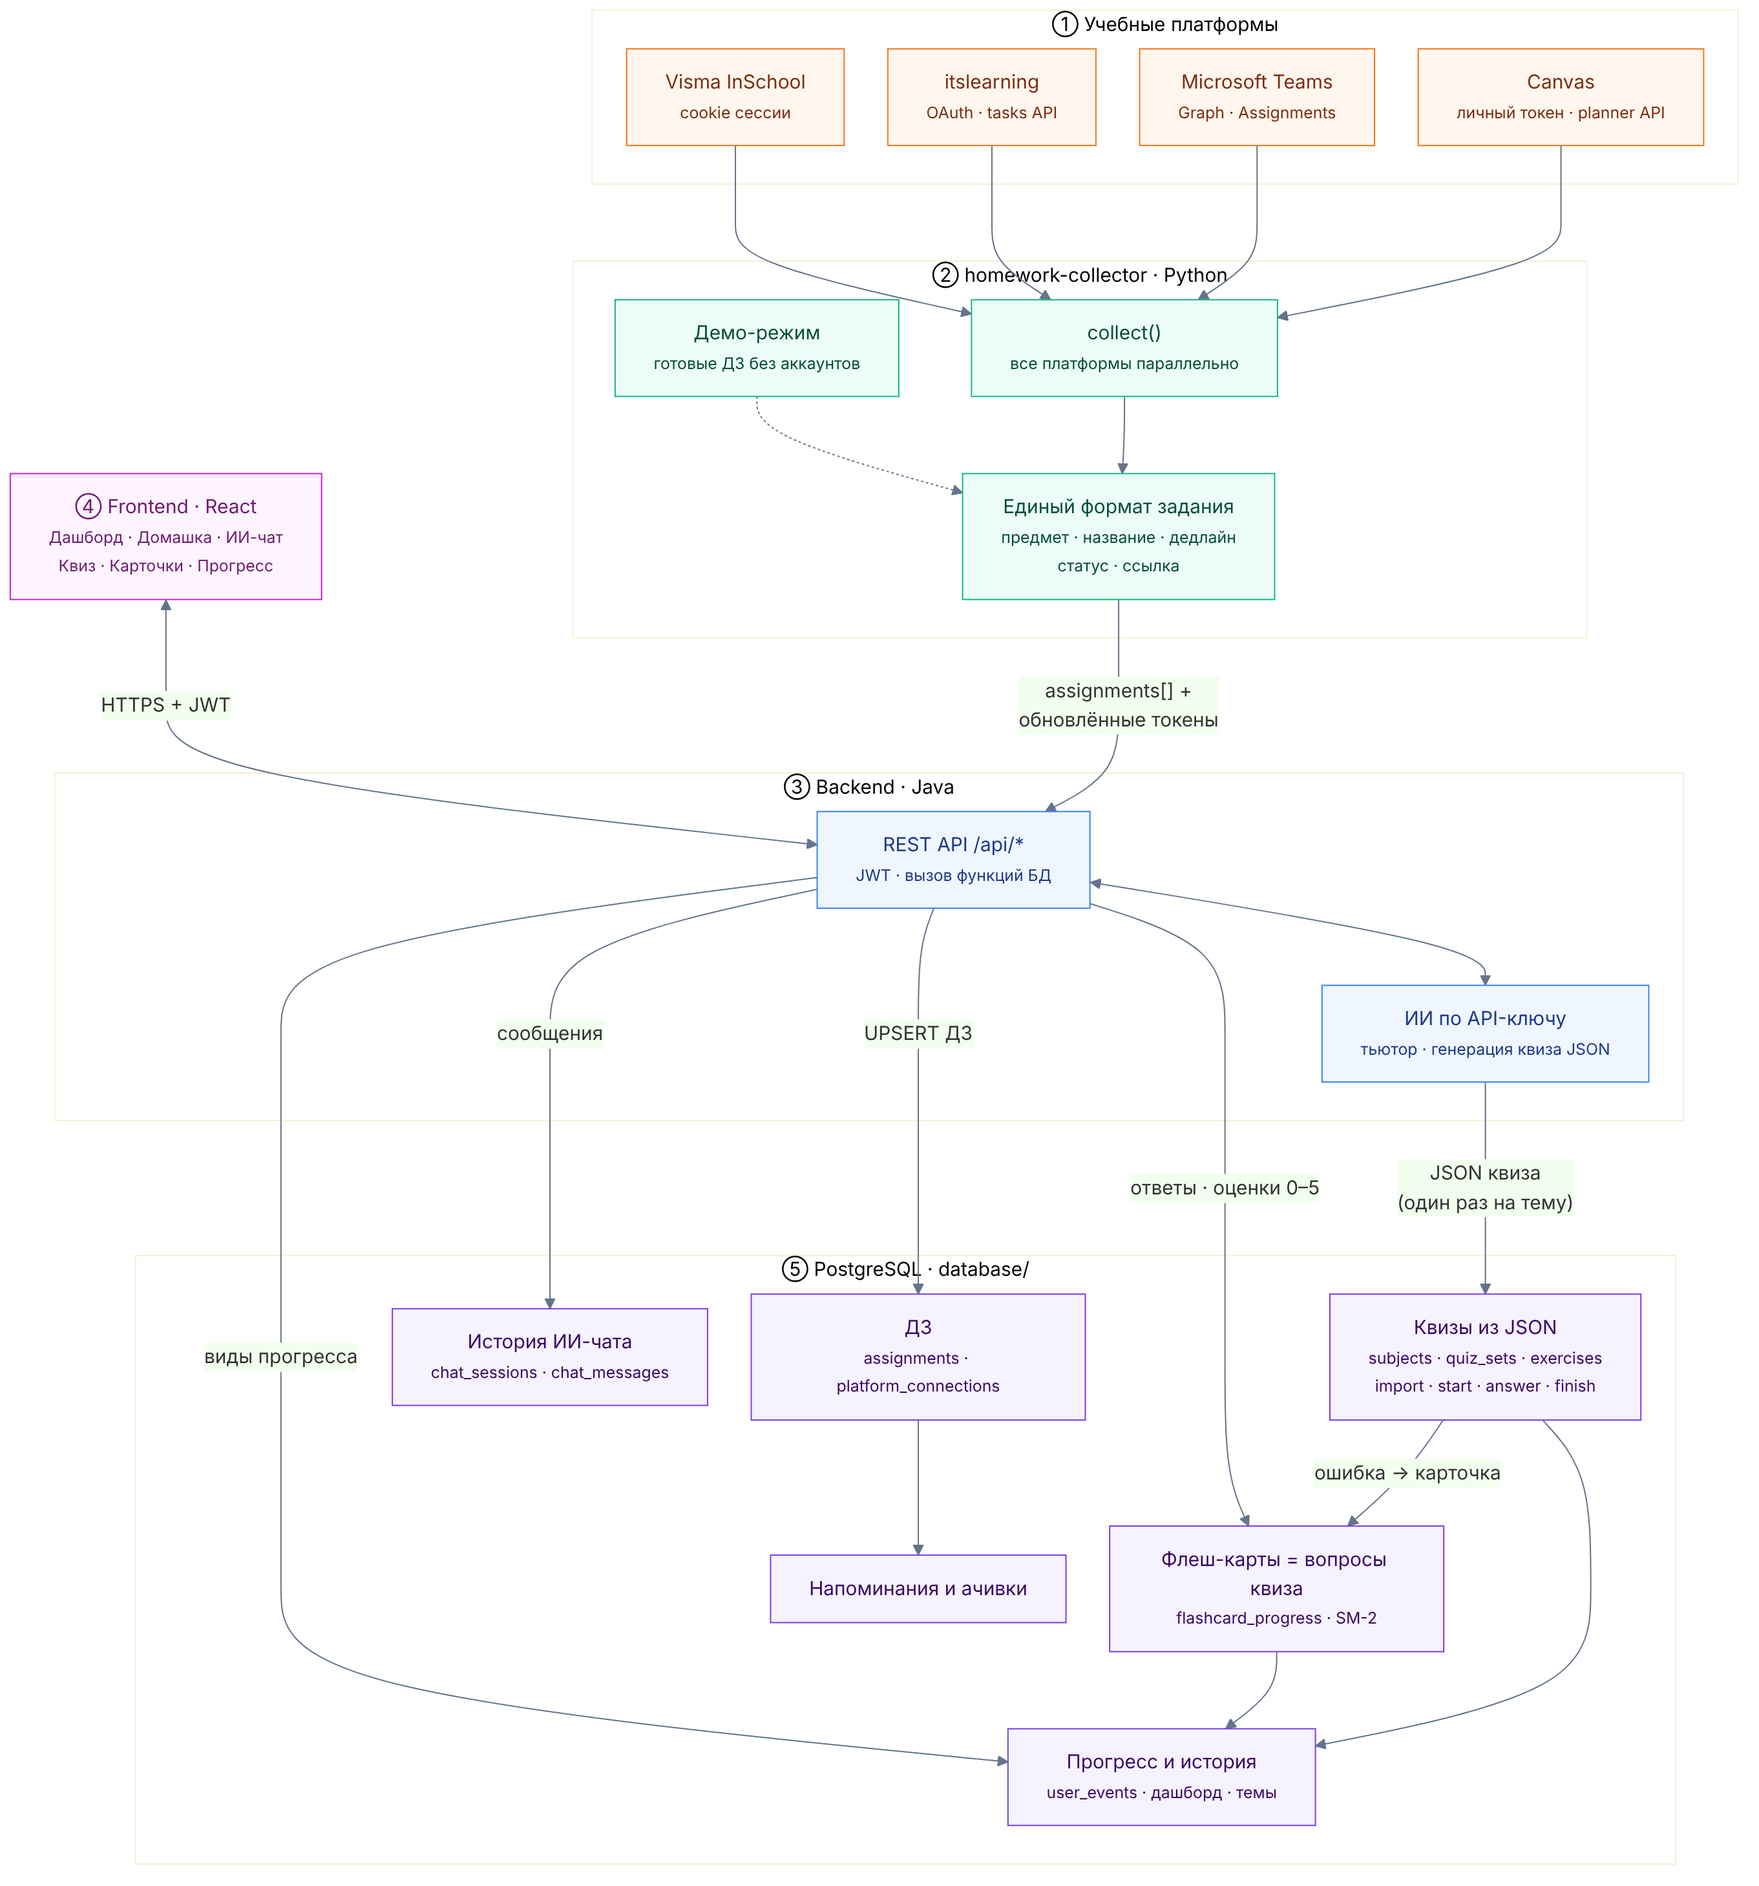
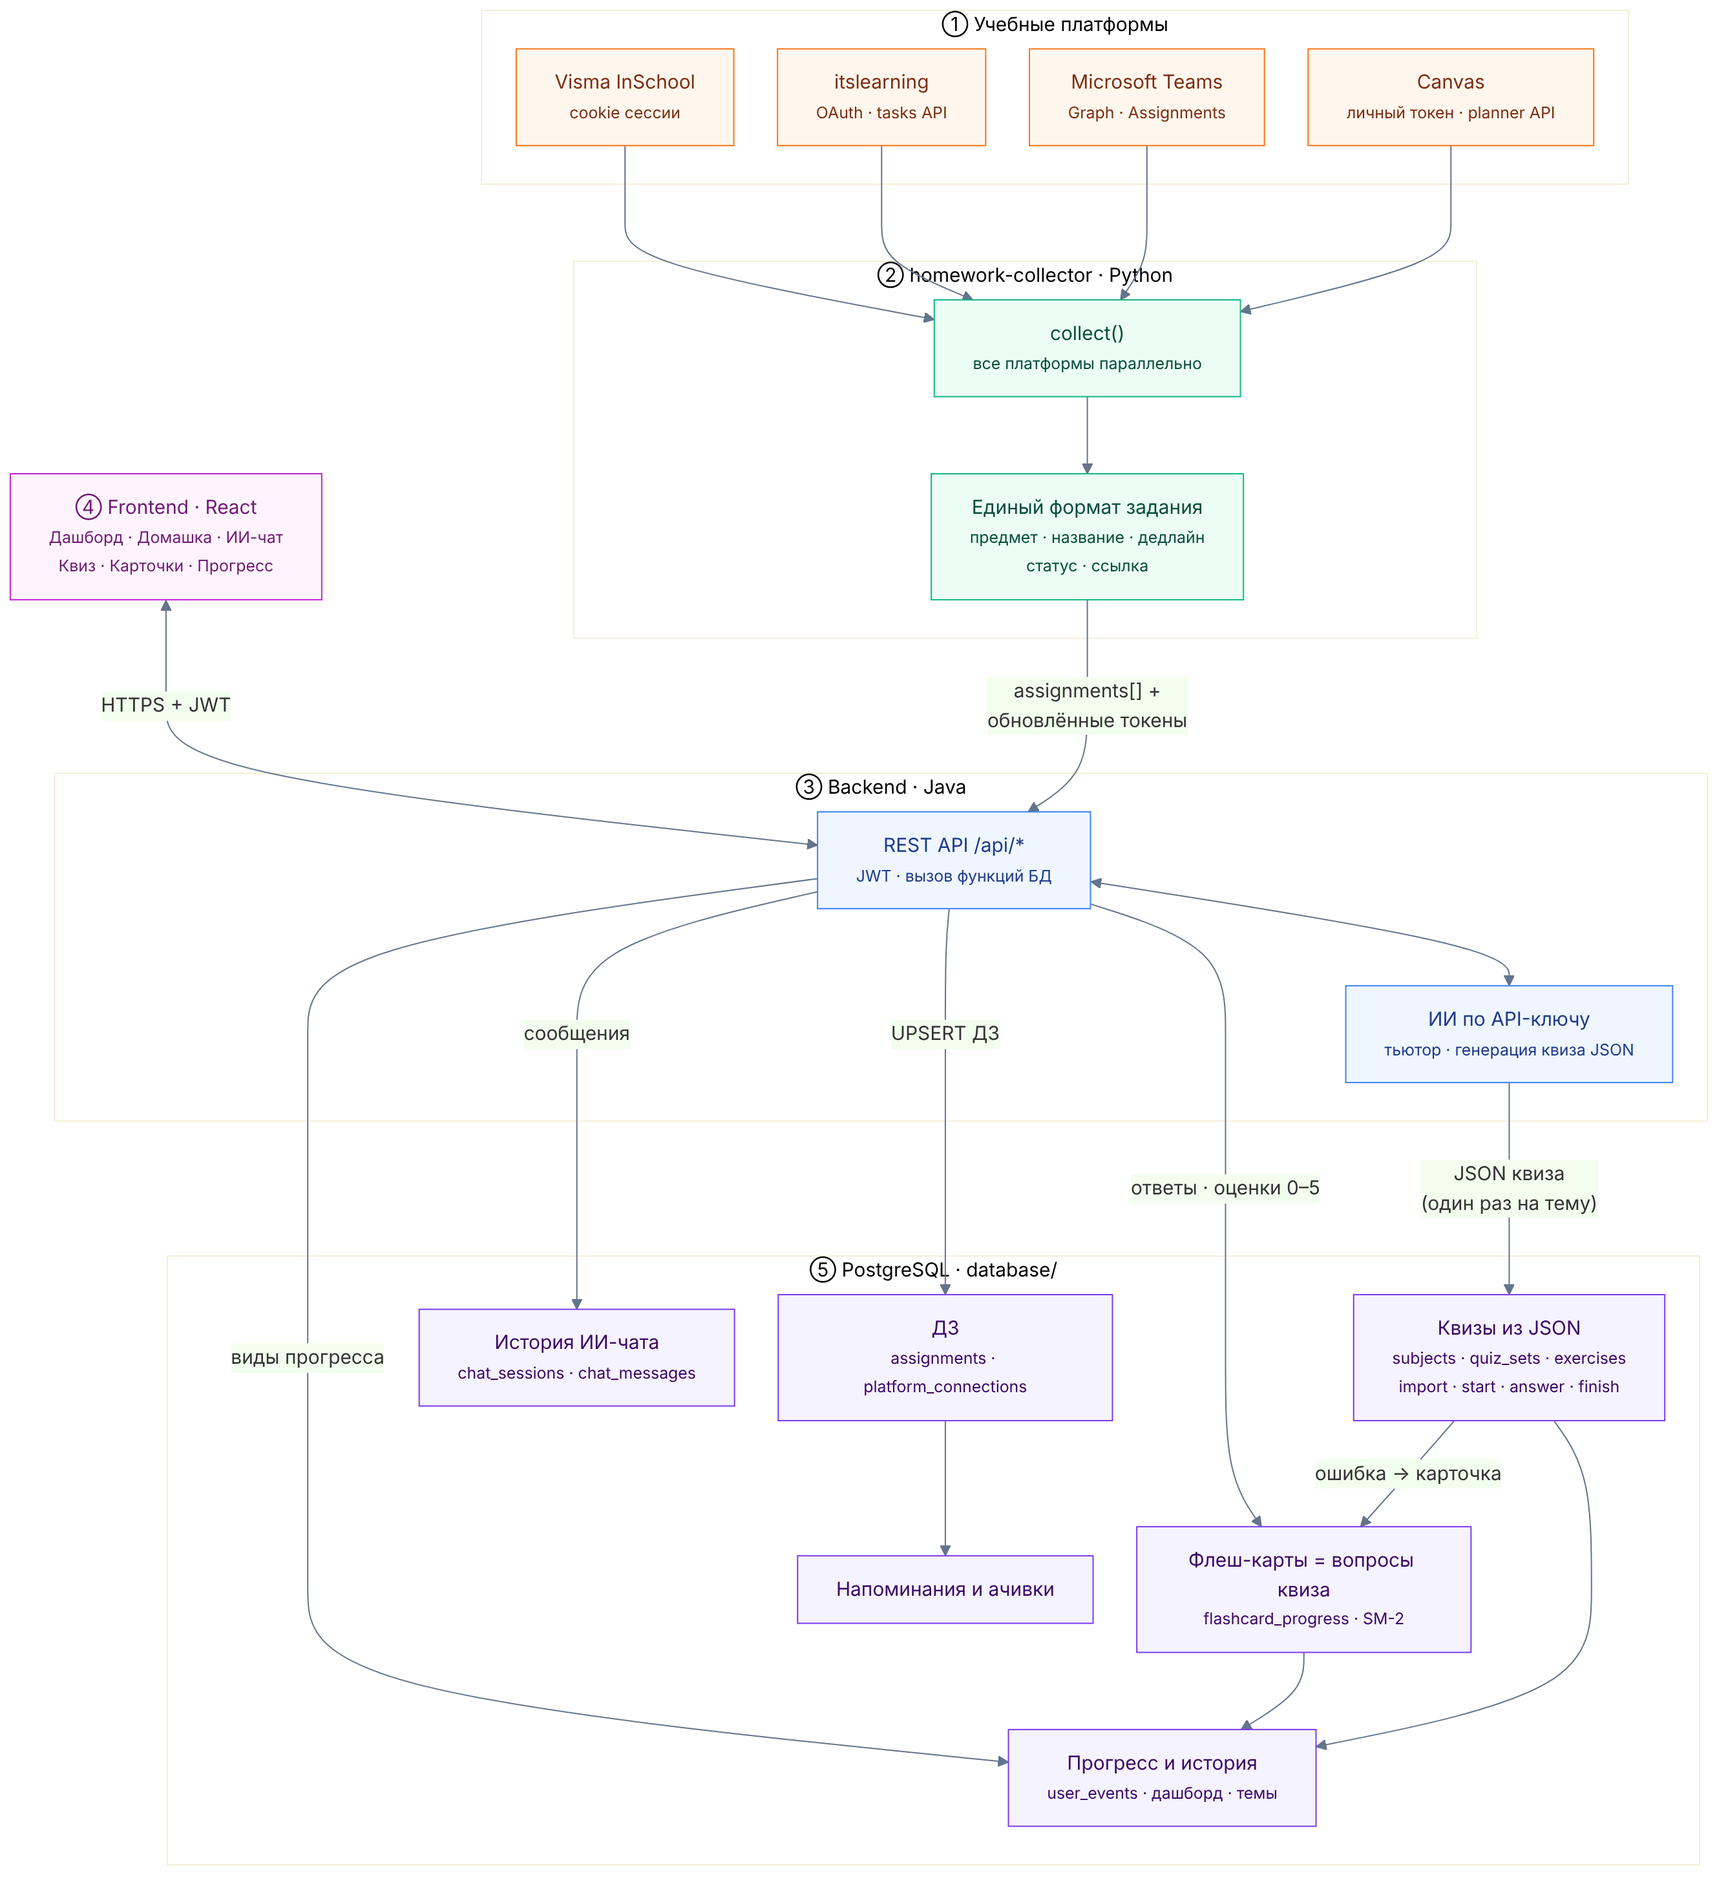
убраны демо-данные: seed.sql и демо-режим collect()
- database: удалён seed.sql (демо-ученик, ДЗ, чат, квиз), docker-compose его больше не монтирует
- homework-collector: удалены demo.py, параметр demo в collect(), флаг --demo, поле demo в моделях
- тесты переписаны без демо (6 из 6), документация и schema.png обновлены

Claude-Session: https://claude.ai/code/session_01S8vj6L9zuodnirizH8bm8x

diff --git a/homework-collector/homework/collect.py b/homework-collector/homework/collect.py
@@ -6,7 +6,6 @@ from datetime import datetime, timezone
 
 import httpx
 
-from . import demo as demo_data
 from .models import Assignment, CollectResult, Credentials, SourceError, SourceResult, utcnow
 from .sources import canvas, inschool, itslearning, teams
 
@@ -31,13 +30,11 @@ def sort_key(a: Assignment):
     return (STATUS_ORDER[a.status], a.due or FAR)
 
 
-def collect(credentials: Credentials | dict | None = None, *, demo: bool | None = None,
+def collect(credentials: Credentials | dict | None = None, *,
             client: httpx.Client | None = None) -> CollectResult:
-    """credentials — учётные данные платформ (что есть). demo=True — для платформ без данных
-    подставить демо-задания. Возвращает общий список (сначала просроченные, потом по дедлайну),
-    статус каждого источника и обновлённые токены, которые бэкенд должен сохранить."""
+    """credentials — учётные данные платформ (что есть). Возвращает общий список
+    (сначала просроченные, потом по дедлайну), статус каждого источника и обновлённые токены, которые бэкенд должен сохранить."""
     creds = Credentials.model_validate(credentials or {})
-    use_demo = creds.demo if demo is None else demo
     own = client is None
     client = client or httpx.Client(timeout=30, follow_redirects=False)
     assignments, sources, updated = [], {}, {}
@@ -52,12 +49,6 @@ def collect(credentials: Credentials | dict | None = None, *, demo: bool | None 
     finally:
         if own:
             client.close()
-    if use_demo:
-        for name in SOURCES:
-            if name not in sources:
-                items = demo_data.demo(name)
-                assignments += items
-                sources[name] = SourceResult(ok=True, count=len(items), demo=True)
     assignments.sort(key=sort_key)
     return CollectResult(generated_at=utcnow(), assignments=assignments, sources=sources,
                          updated_credentials=updated)

diff --git a/homework-collector/tests/test_collect.py b/homework-collector/tests/test_collect.py
@@ -14,12 +14,9 @@ def client(handler):
     return httpx.Client(transport=httpx.MockTransport(handler))
 
 
-def test_demo_covers_all_sources_in_one_format():
-    res = collect(demo=True)
-    assert set(res.sources) == {"canvas", "teams", "itslearning", "inschool"}
-    assert all(a.demo for a in res.assignments)
-    assert {a.status for a in res.assignments} <= {"todo", "overdue", "submitted", "graded"}
-    assert res.assignments[0].status == "overdue"  # просроченные первыми
+def test_no_credentials_gives_empty_result():
+    res = collect()
+    assert res.assignments == [] and res.sources == {}
 
 
 def test_canvas_parses_planner_and_follows_pages():
@@ -68,11 +65,11 @@ def test_itslearning_tasks_and_code_exchange():
     assert {a.id: a.status for a in res.assignments} == {"1": "todo", "2": "submitted"}
 
 
-def test_inschool_expired_session_asks_reconnect_and_demo_fills_rest():
-    res = collect({"inschool": {"host": "s.test", "cookies": {"JSESSIONID": "x"}}}, demo=True,
+def test_inschool_expired_session_asks_reconnect():
+    res = collect({"inschool": {"host": "s.test", "cookies": {"JSESSIONID": "x"}}},
                   client=client(lambda req: httpx.Response(401)))
     assert res.sources["inschool"].ok is False and res.sources["inschool"].needs_reconnect
-    assert res.sources["canvas"].demo and not any(a.source == "inschool" for a in res.assignments)
+    assert res.assignments == []
 
 
 def test_one_broken_source_does_not_break_others():

diff --git a/homework-collector/homework/__main__.py b/homework-collector/homework/__main__.py
@@ -1,4 +1,4 @@
-"""CLI для проверки: python -m homework [--demo] [--creds creds.json] [--json]"""
+"""CLI для проверки: python -m homework --creds creds.json [--json]"""
 import argparse
 import json
 import pathlib
@@ -9,16 +9,15 @@ ICON = {"overdue": "!!", "todo": "  ", "submitted": "ok", "graded": "★ "}
 
 p = argparse.ArgumentParser(description="Собрать ДЗ со всех платформ")
 p.add_argument("--creds", help="JSON с учётными данными (формат Credentials)")
-p.add_argument("--demo", action="store_true", help="демо-задания для платформ без учётных данных")
 p.add_argument("--json", action="store_true", help="вывести JSON")
 a = p.parse_args()
 creds = json.loads(pathlib.Path(a.creds).read_text()) if a.creds else {}
-res = collect(creds, demo=a.demo)
+res = collect(creds)
 if a.json:
     print(json.dumps(res.model_dump(mode="json"), ensure_ascii=False, indent=1))
 else:
     for name, s in res.sources.items():
-        print(f"# {name}: {'демо' if s.demo else 'живые'} {s.count} шт." if s.ok else f"# {name}: ОШИБКА {s.error}")
+        print(f"# {name}: {s.count} шт." if s.ok else f"# {name}: ОШИБКА {s.error}")
     for x in res.assignments:
         due = x.due.astimezone().strftime("%d.%m %H:%M") if x.due else "без срока"
         print(f"{ICON[x.status]} {due:>11}  [{x.source:<11}] {x.course}: {x.title}")

diff --git a/homework-collector/homework/models.py b/homework-collector/homework/models.py
@@ -20,7 +20,6 @@ class Assignment(BaseModel):
     url: Optional[str] = None
     description: str = ""
     kind: str = "assignment"  # assignment | quiz | exam | discussion | task
-    demo: bool = False
 
 
 # ---------- учётные данные, которые бэкенд хранит у себя и передаёт в collect() ----------
@@ -54,13 +53,11 @@ class Credentials(BaseModel):
     teams: Optional[TeamsCreds] = None
     itslearning: Optional[ItslearningCreds] = None
     inschool: Optional[InschoolCreds] = None
-    demo: bool = Field(False, description="вернуть демо-задания для источников без учётных данных")
 
 
 class SourceResult(BaseModel):
     ok: bool
     count: int = 0
-    demo: bool = False
     error: Optional[str] = None
     needs_reconnect: bool = False
 

diff --git a/homework-collector/homework/__init__.py b/homework-collector/homework/__init__.py
@@ -1,7 +1,7 @@
 """LekseRadar: сбор домашних заданий с Canvas, Teams, itslearning и Visma InSchool в один формат.
 
     from homework import collect
-    result = collect({"canvas": {"base_url": "...", "token": "..."}}, demo=True)
+    result = collect({"canvas": {"base_url": "...", "token": "..."}})
     result.model_dump(mode="json")   # → JSON для бэкенда
 """
 from .collect import collect

diff --git a/docs/ARCHITECTURE.md b/docs/ARCHITECTURE.md
@@ -116,7 +116,7 @@ sequenceDiagram
     B-->>F: список ДЗ (просроченные сверху)
     Note over F: needs_reconnect=true → показать «Войти заново» у платформы
 ```
-Без подключённых платформ `collect(demo=True)` отдаёт демо-ДЗ: удобно для показа.
+Без подключённых платформ `collect()` возвращает пустой список.
 
 ### 4.3 ИИ-чат с историей
 ```mermaid
@@ -248,7 +248,6 @@ flowchart LR
 | Режим чата `tutor` / `quiz` с закреплённым промптом | в каждом чате ИИ всегда работает по своему промпту, режим нельзя случайно поменять посреди разговора |
 | Промпты в базе с версиями | меняем промпт без пересборки бэкенда, можно откатиться, видно каким промптом сделан квиз |
 | Материалы режутся на фрагменты, поиск в PostgreSQL | ИИ не дообучается: перед ответом бэкенд находит 5 подходящих кусков учебника и вставляет в промпт; без отдельной векторной базы |
-| Демо-режим и `seed.sql` | демо на хакатоне работает без настоящих аккаунтов |
 
 ## 7. Что надо согласовать (важно)
 
@@ -262,9 +261,9 @@ flowchart LR
 
 ## 8. Порядок работы
 
-1. №2: перейти на миграции из `database/`, запустить `docker compose up -d` (там демо-ученик `demo@lekseradar.no` / `demo1234`).
+1. №2: перейти на миграции из `database/`, запустить `docker compose up -d` (база пустая, ученик — через регистрацию).
 2. №2: эндпоинты квиза и карточек (п. 5) — это вызовы готовых функций БД.
 3. №1: экраны Квиз и Карточки по сценариям 4.4 и 4.5, дашборд по 4.6.
 4. №3: промпты в `ai-content/prompts`, учебные файлы в `ai-content/materials`, загрузка `ai-content/load/load.py`; обёртка для `collect()`.
 5. №2: брать промпты через `get_prompt(...)` вместо `Prompts.java`, материалы через `materials_for_prompt(...)`.
-6. ДЗ с платформ подключаем последними, до этого демо-режим.
+6. ДЗ с платформ подключаем последними.

diff --git a/database/README.md b/database/README.md
@@ -13,7 +13,7 @@ cd database
 docker compose up -d        # Postgres на localhost:5432, база/логин/пароль: lekseradar
 ```
 
-При первом старте применяются все миграции и `seed.sql` (демо-ученик `demo@lekseradar.no`, пароль `demo1234`).
+При первом старте применяются все миграции. База стартует пустой, без демо-данных: ученика создаёт регистрация.
 Сбросить: `docker compose down -v && docker compose up -d`.
 
 В Spring Boot: скопировать `migrations/*.sql` в `src/main/resources/db/migration/` и включить Flyway.
@@ -67,8 +67,8 @@ erDiagram
 **Синхронизация ДЗ.** Результат `collect()` записывается upsert'ом, `updated_credentials` заменяют
 `platform_connections.credentials_enc`:
 ```sql
-INSERT INTO assignments (user_id, source, external_id, title, course, due_at, status, url, description, kind, is_demo)
-VALUES (?, ?::platform, ?, ?, ?, ?, ?::assignment_status, ?, ?, ?, ?)
+INSERT INTO assignments (user_id, source, external_id, title, course, due_at, status, url, description, kind)
+VALUES (?, ?::platform, ?, ?, ?, ?, ?::assignment_status, ?, ?, ?)
 ON CONFLICT (user_id, source, external_id) DO UPDATE
 SET title = EXCLUDED.title, course = EXCLUDED.course, due_at = EXCLUDED.due_at, status = EXCLUDED.status,
     url = EXCLUDED.url, description = EXCLUDED.description, updated_at = now();
